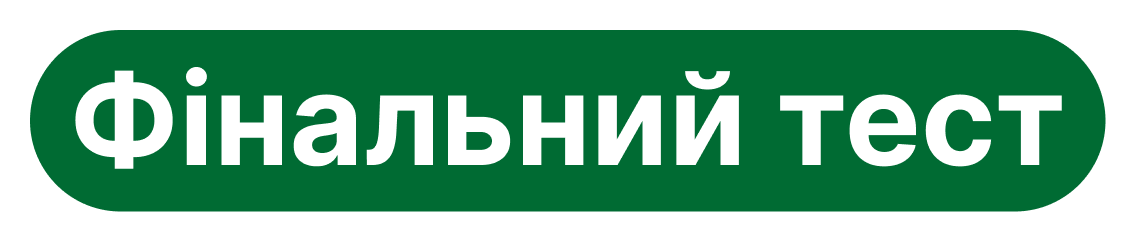
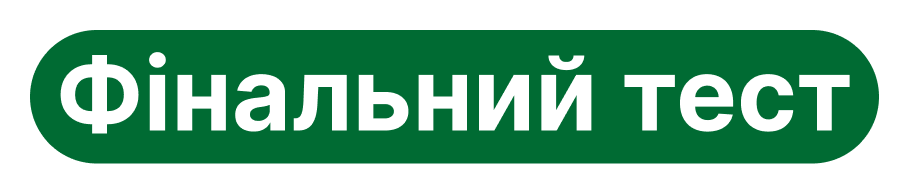
fix aboutscreen info, change backgrounds and fonts in profile screen and aboutscreen, add finalTestButton.png to levels screen

diff --git a/android/src/com/wheelie/co/Tools/FontFactory.java b/android/src/com/wheelie/co/Tools/FontFactory.java
@@ -31,6 +31,7 @@ public class FontFactory {
     private BitmapFont prettyUkr;
 
     private BitmapFont verySmallEn;
+    private BitmapFont prettyProfileUkr;
 
 
 
@@ -64,6 +65,7 @@ public class FontFactory {
         else if ("uk".equals(locale.getLanguage()) && numb==3) return interUkr;
         else if ("uk".equals(locale.getLanguage()) && numb==2) return smallUkr;
         else if ("uk".equals(locale.getLanguage()) && numb==10) return prettyUkr;
+        else if ("uk".equals(locale.getLanguage()) && numb==11) return prettyProfileUkr;
 
         //НЕ ВИКОРИСТОВУЙТЕ НОМЕР 2 НІ В ЯКОМУ РАЗІ ДЛЯ ШРИФТІВ ЯКЩО БУДЕТЕ СТВОРЮВАТИ НОВІ//
 
@@ -74,14 +76,15 @@ public class FontFactory {
         if (enFont != null) enFont.dispose();
         if (enSmallFont != null) enSmallFont.dispose();
         if (ukrFont != null) ukrFont.dispose();
-        if (smallUkr != null) ukrFont.dispose();
-        if (smallUkrWhite != null) ukrFont.dispose();
-        if (verySmallUkr != null) verySmallUkr.dispose();
         if (smallUkr != null) smallUkr.dispose();
+        if (smallUkrWhite != null) smallUkrWhite.dispose();
+        if (verySmallUkr != null) verySmallUkr.dispose();
         if (smallUkrWhite != null) smallUkrWhite.dispose();
         if (interUkr != null) interUkr.dispose();
         if (verySmallEn != null) verySmallEn.dispose();
         if (prettyUkr != null) prettyUkr.dispose();
+        if (prettyProfileUkr != null) prettyProfileUkr.dispose();
+
 
 
 
@@ -102,5 +105,8 @@ public class FontFactory {
         verySmallEn = generateFont(ENGLISH_FONT_NAME2, ALL_CHARACTERS,55, Color.BLACK);
 
         prettyUkr = generateFont(PRETTY_UKR_FONT_NAME, ALL_CHARACTERS,55, Color.BLACK);
+        prettyProfileUkr = generateFont(PRETTY_UKR_FONT_NAME, ALL_CHARACTERS,70, Color.BLACK);
+
+
     }
 }

diff --git a/android/src/com/wheelie/co/Graphics/LevelsScreen.java b/android/src/com/wheelie/co/Graphics/LevelsScreen.java
@@ -199,7 +199,7 @@ public class LevelsScreen extends ScreenAdapter implements InputProcessor {
         levelsBtns.get(1).setPosition(levelsBtns.get(0).getWidth() - 65,GraphicConstants.rowHeight*6 - 55);
         levelsBtns.get(2).setPosition(levelsBtns.get(0).getWidth()*2 - 120,GraphicConstants.rowHeight*6 - 65);
         levelsBtns.get(3).setPosition(GraphicConstants.screenWidth-GraphicConstants.colWidth*2-60,GraphicConstants.rowHeight*5+190);
-        levelsBtns.get(4).setPosition(GraphicConstants.screenWidth-GraphicConstants.colWidth*2,GraphicConstants.rowHeight*4 +215);
+        levelsBtns.get(4).setPosition(GraphicConstants.screenWidth-GraphicConstants.colWidth*2,GraphicConstants.rowHeight*4 +225);
         levelsBtns.get(5).setPosition(levelsBtns.get(0).getWidth()*2 +140,GraphicConstants.rowHeight*4 + 5);
         levelsBtns.get(6).setPosition(levelsBtns.get(1).getX()+280,levelsBtns.get(5).getY());
         levelsBtns.get(7).setPosition(levelsBtns.get(0).getX()+300,levelsBtns.get(5).getY());
@@ -225,7 +225,7 @@ public class LevelsScreen extends ScreenAdapter implements InputProcessor {
         finalTestButton = new ImageButton(finRegionDrawable);
 
         finalTestButton.setPosition(GraphicConstants.centerX-(finalTestButton.getWidth()/2F),GraphicConstants.rowHeight/2);
-        finalTestButton.setScale(0.5f,0.5f);
+        //finalTestButton.setScale(0.5f,0.5f);
         stage.addActor(finalTestButton);
 
 

diff --git a/android/src/com/wheelie/co/Graphics/AboutScreen.java b/android/src/com/wheelie/co/Graphics/AboutScreen.java
@@ -54,21 +54,6 @@ public class AboutScreen extends ScreenAdapter implements InputProcessor {
     private GlyphLayout layout;
     private TextButton backButton;
 
-    private TextButton editButton;
-
-    private Label PIB;
-
-    private Label age;
-
-    private Label failures;
-
-    private Integer ageBD = 19;
-
-    private String PIBBD = "Зубенко Михайло Петрович";
-
-    private Integer failuresBD = 1;
-
-
 
 
 
@@ -119,7 +104,7 @@ public class AboutScreen extends ScreenAdapter implements InputProcessor {
         skin2.load(Gdx.files.internal("skin-composer-ui.json"));
 
         ScrollPane scrollPane = new ScrollPane(null);
-        scrollPane.setBounds(10, 10, GraphicConstants.screenWidth - 20, GraphicConstants.rowHeight*6);
+        scrollPane.setBounds(10, GraphicConstants.rowHeight + 10, GraphicConstants.screenWidth - 20, GraphicConstants.rowHeight*5);
 
         String text = FileService.readFile("about.txt");
 
@@ -160,7 +145,7 @@ public class AboutScreen extends ScreenAdapter implements InputProcessor {
 
 
 
-        sprite = new Sprite(new Texture(Gdx.files.internal("white.jpg")));
+        sprite = new Sprite(new Texture(Gdx.files.internal("backblue.jpg")));
         sprite.setSize(Gdx.graphics.getWidth(), Gdx.graphics.getHeight());
         Gdx.input.setInputProcessor(stage);
         layout = new GlyphLayout(font2, "Drivetopia");

diff --git a/android/src/com/wheelie/co/Graphics/ProfileScreen.java b/android/src/com/wheelie/co/Graphics/ProfileScreen.java
@@ -114,7 +114,7 @@ public class ProfileScreen extends ScreenAdapter implements InputProcessor {
         ukrLocale = new Locale("uk", "UA");
         font1=fontFactory.getFont(ukrLocale,1);
         font2=fontFactory.getFont(enLocale,1);
-        font3=fontFactory.getFont(ukrLocale,2);
+        font3=fontFactory.getFont(ukrLocale,11);
         emailFont=fontFactory.getFont(enLocale,5);
 
 
@@ -129,7 +129,7 @@ public class ProfileScreen extends ScreenAdapter implements InputProcessor {
         skin2.load(Gdx.files.internal("skin-composer-ui.json"));
 
         emailSkin = new Skin(new TextureAtlas(Gdx.files.internal("skin-composer-ui.atlas")));
-        emailSkin.add("font", emailFont);
+        emailSkin.add("font", font3);
 
         emailSkin.load(Gdx.files.internal("skin-composer-ui.json"));
 
@@ -245,7 +245,7 @@ public class ProfileScreen extends ScreenAdapter implements InputProcessor {
 
 
 
-        sprite = new Sprite(new Texture(Gdx.files.internal("mountbgr.png")));
+        sprite = new Sprite(new Texture(Gdx.files.internal("backsun.jpg")));
         sprite.setSize(Gdx.graphics.getWidth(), Gdx.graphics.getHeight());
         Gdx.input.setInputProcessor(stage);
         layout = new GlyphLayout(font2, "User profile");

diff --git a/android/src/DBWorkH/DatabaseHelperH.java b/android/src/DBWorkH/DatabaseHelperH.java
@@ -986,6 +986,23 @@ public class DatabaseHelperH extends SQLiteOpenHelper {
 
         db.insert("normalTextInputQuestion", null, normalInputValues);
 
+        normalInputValues = new ContentValues();
+        normalInputValues.put("levelNumb", 9);
+        normalInputValues.put("text", "Відстань до транспортного засобу, що рухається попереду:");
+        normalInputValues.put("answer", "дистанція");
+
+        db.insert("normalTextInputQuestion", null, normalInputValues);
+
+        normalInputValues = new ContentValues();
+        normalInputValues.put("levelNumb", 9);
+        normalInputValues.put("text", "Відстань до транспортного засобу, що рухається по суміжній смузі:");
+        normalInputValues.put("answer", "інтервал");
+
+        db.insert("normalTextInputQuestion", null, normalInputValues);
+
+        /**рівень 10**/
+
+
 
 
 

diff --git a/android/src/com/wheelie/co/levels20/IntermediateScreen.java b/android/src/com/wheelie/co/levels20/IntermediateScreen.java
@@ -156,7 +156,7 @@ public class IntermediateScreen extends ScreenAdapter implements InputProcessor 
                    updateUserScoreForLevel(app.getDatabase(),userId, level.levelNumb, level.currentscore);
                }
                 /**якщо пройдено на максимум, заноситься стан 2 в базу даних цього рівня і користувача**/
-               if(!failure && level.currentscore>=level.maximumScore) {
+               if(!failure && level.failureScoreCount==0) {
                    updateUserStateForLevel(app.getDatabase(),userId,level.levelNumb,2);
                }
                /**якщо не на максимум, то стан 1**/
